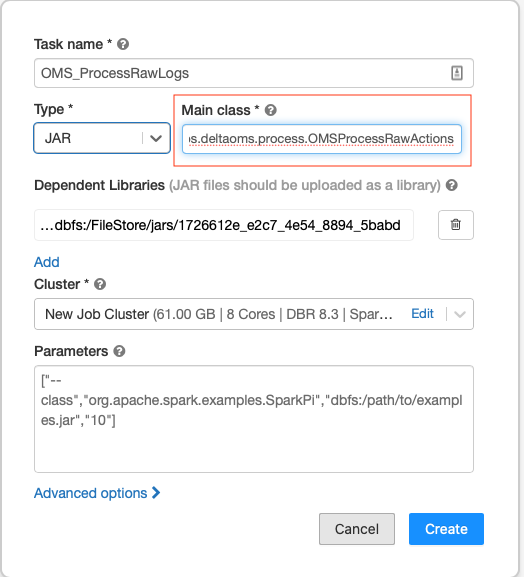
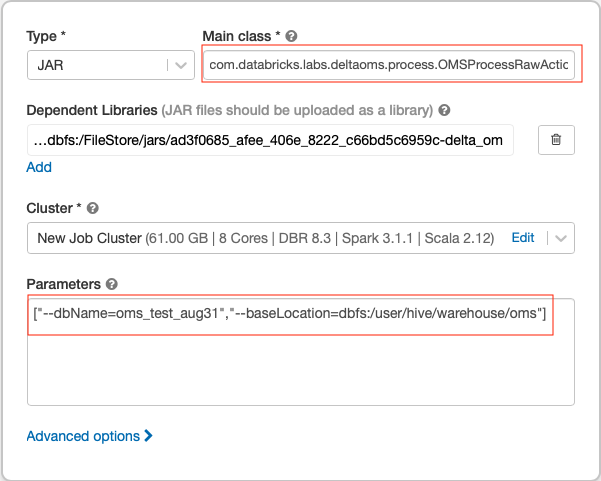
Updated documents and test coverage

diff --git a/docs/content/getting_started/setup.md b/docs/content/getting_started/setup.md
@@ -27,6 +27,8 @@ DeltaOMS centralized Database and tables.
   | omsCheckpointBase | DeltaOMS ingestion is a streaming process.This defines the Base path for the checkpoints |
   | omsCheckpointSuffix | Suffix to be added to the checkpoint path (Helps in making the path unique) |
 
+- Attach the DeltaOMS jar (procured from your Databricks representative or Maven) to a running cluster
+- Attach the notebook to the cluster and start executing the cells
 - Execute `com.databricks.labs.deltaoms.init.InitializeOMS.main` method to create the OMS DB and tables.
 - Validate the DeltaOMS database and tables were created
 
@@ -52,6 +54,9 @@ Next, we will create couple of databricks jobs for executing the solution. The f
 will stream the delta logs from the configured delta tables and persist in the `rawactions` DeltaOMS table.
 
 Main class : `com.databricks.labs.deltaoms.ingest.StreamPopulateOMS` 
+Example Parameters : `
+["--dbName=oms_test_aug31","--baseLocation=dbfs:/user/hive/warehouse/oms","--checkpointBase=dbfs:/user/hive/warehouse/oms/_checkpoints","--checkpointSuffix=_aug31_171000","--skipPathConfig","--skipInitializeOMS","--startingStream=1","--endingStream=50"]
+`
 
 Example:
 
@@ -74,7 +79,10 @@ The first job can also be created through a sample script provided as part of th
 The second job will process the raw actions and organize them into Commit Info and Action snapshots for querying and further analytics.
 
 Main class : `com.databricks.labs.deltaoms.process.OMSProcessRawActions` 
+Example Parameters : `
+["--dbName=oms_test_aug31","--baseLocation=dbfs:/user/hive/warehouse/oms"]`
 
+Example : 
 ![Delta OMS Processing Job](/images/DeltaOMS_Process_Job_1.png)
 
 Refer to the [Developer Guide]({{%relref "developer_guide/_index.md" %}}) for more details on multiple stream approach 
